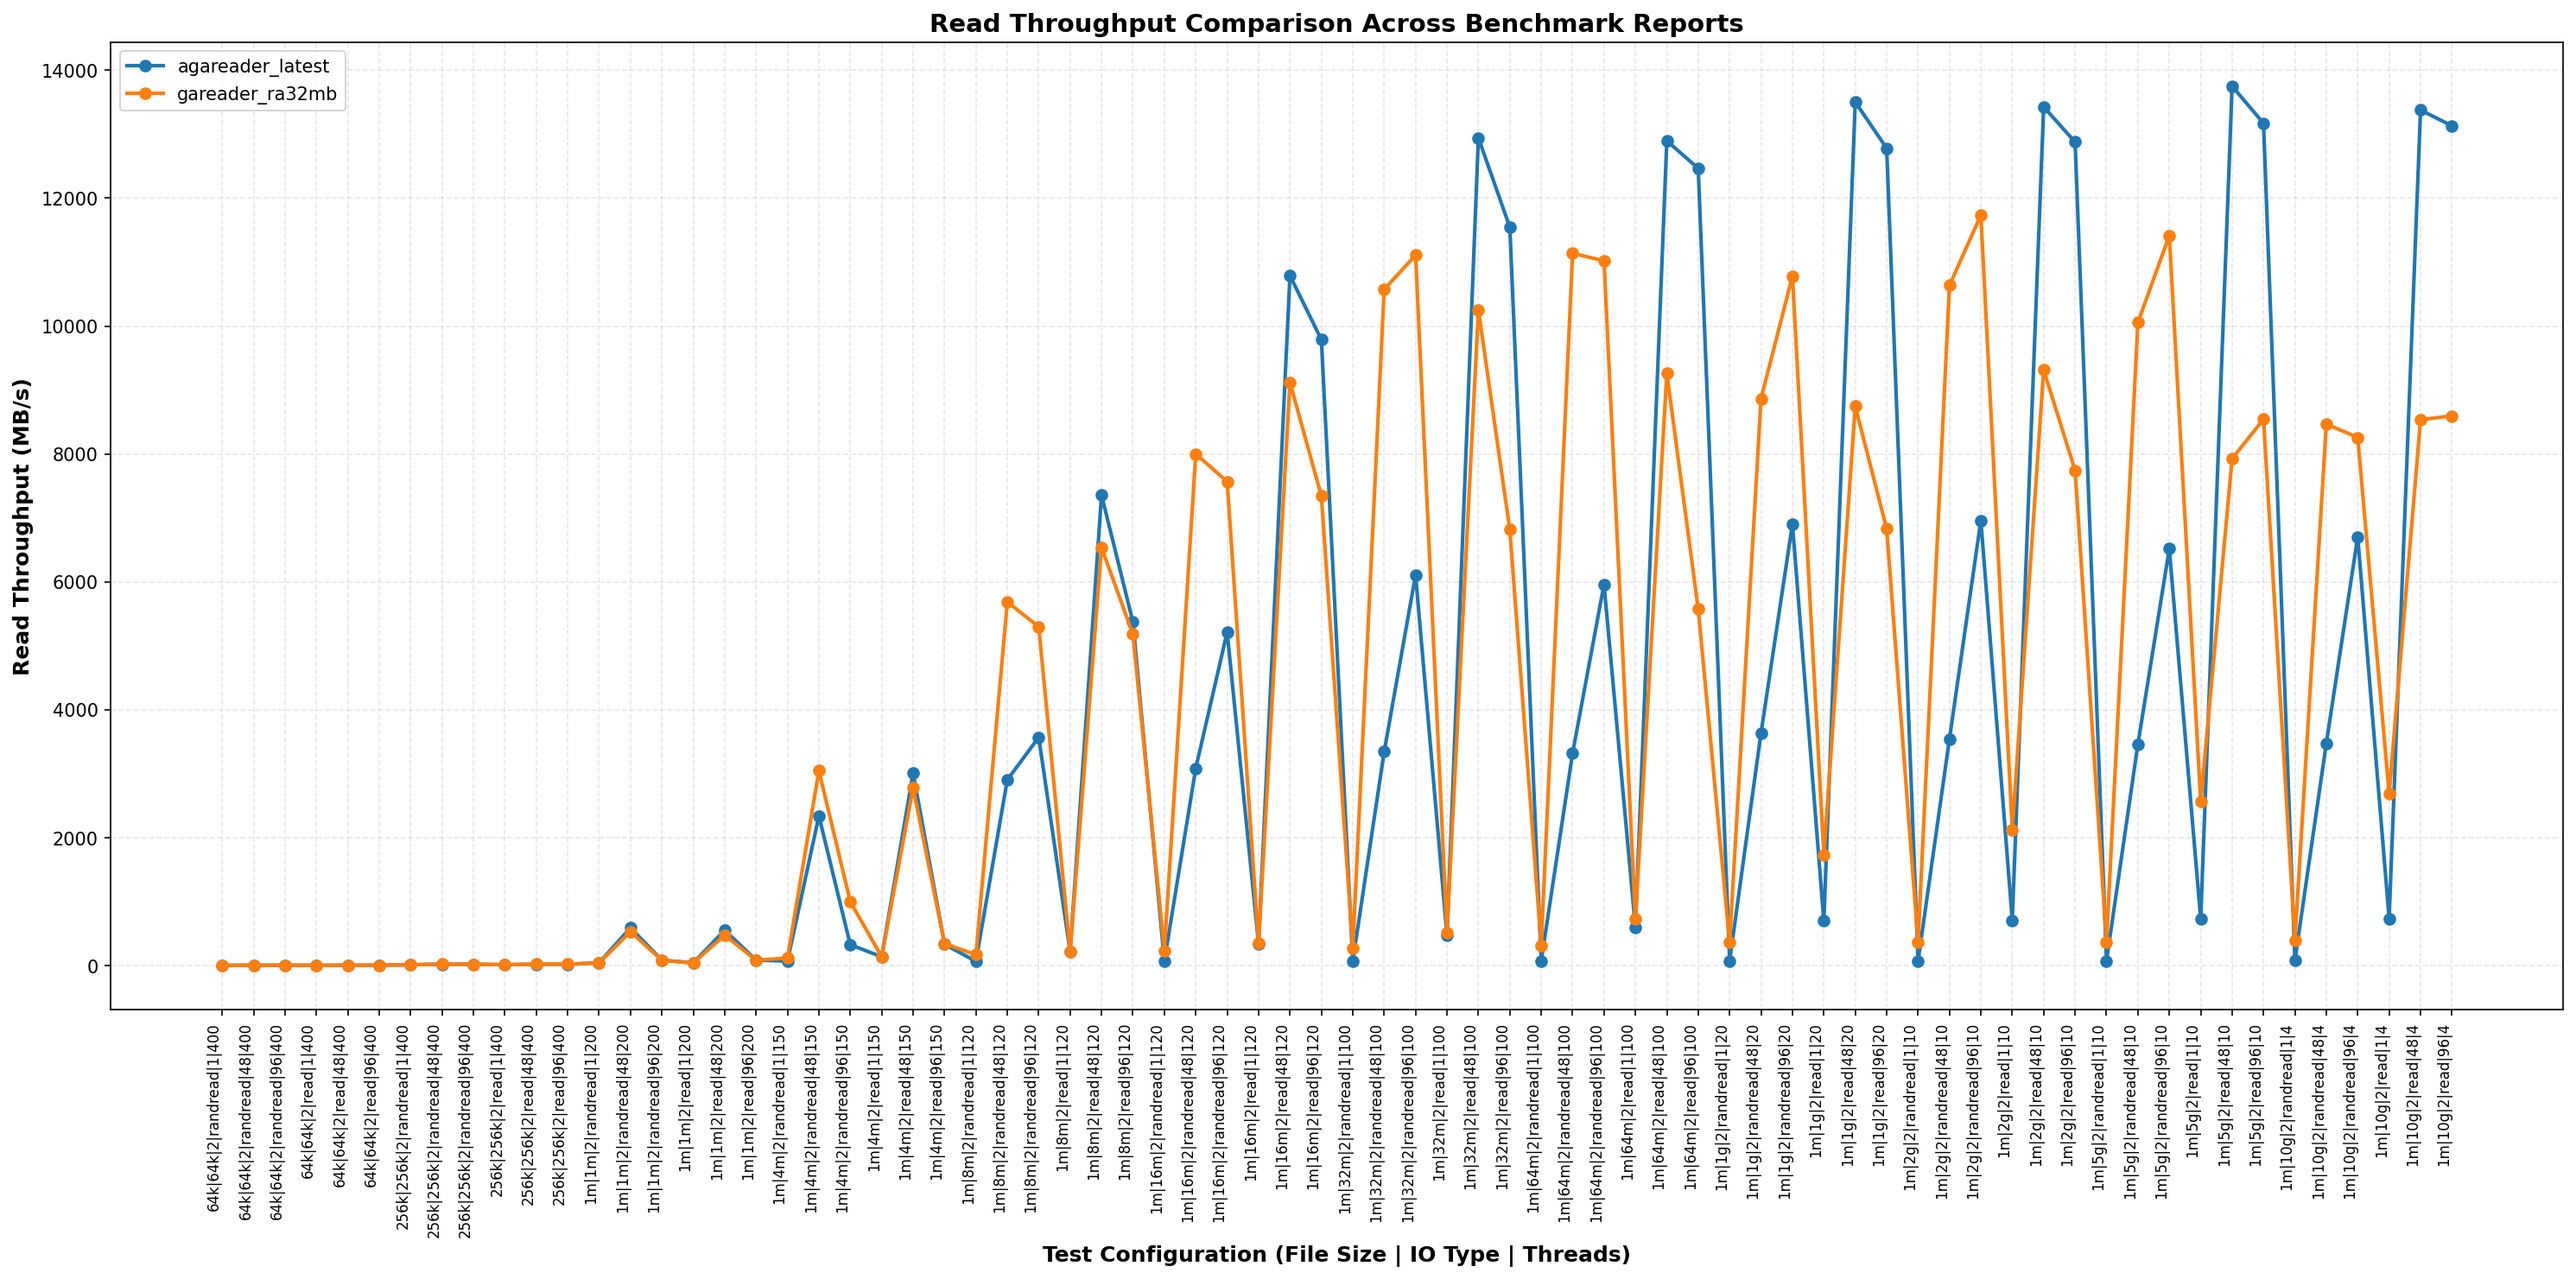
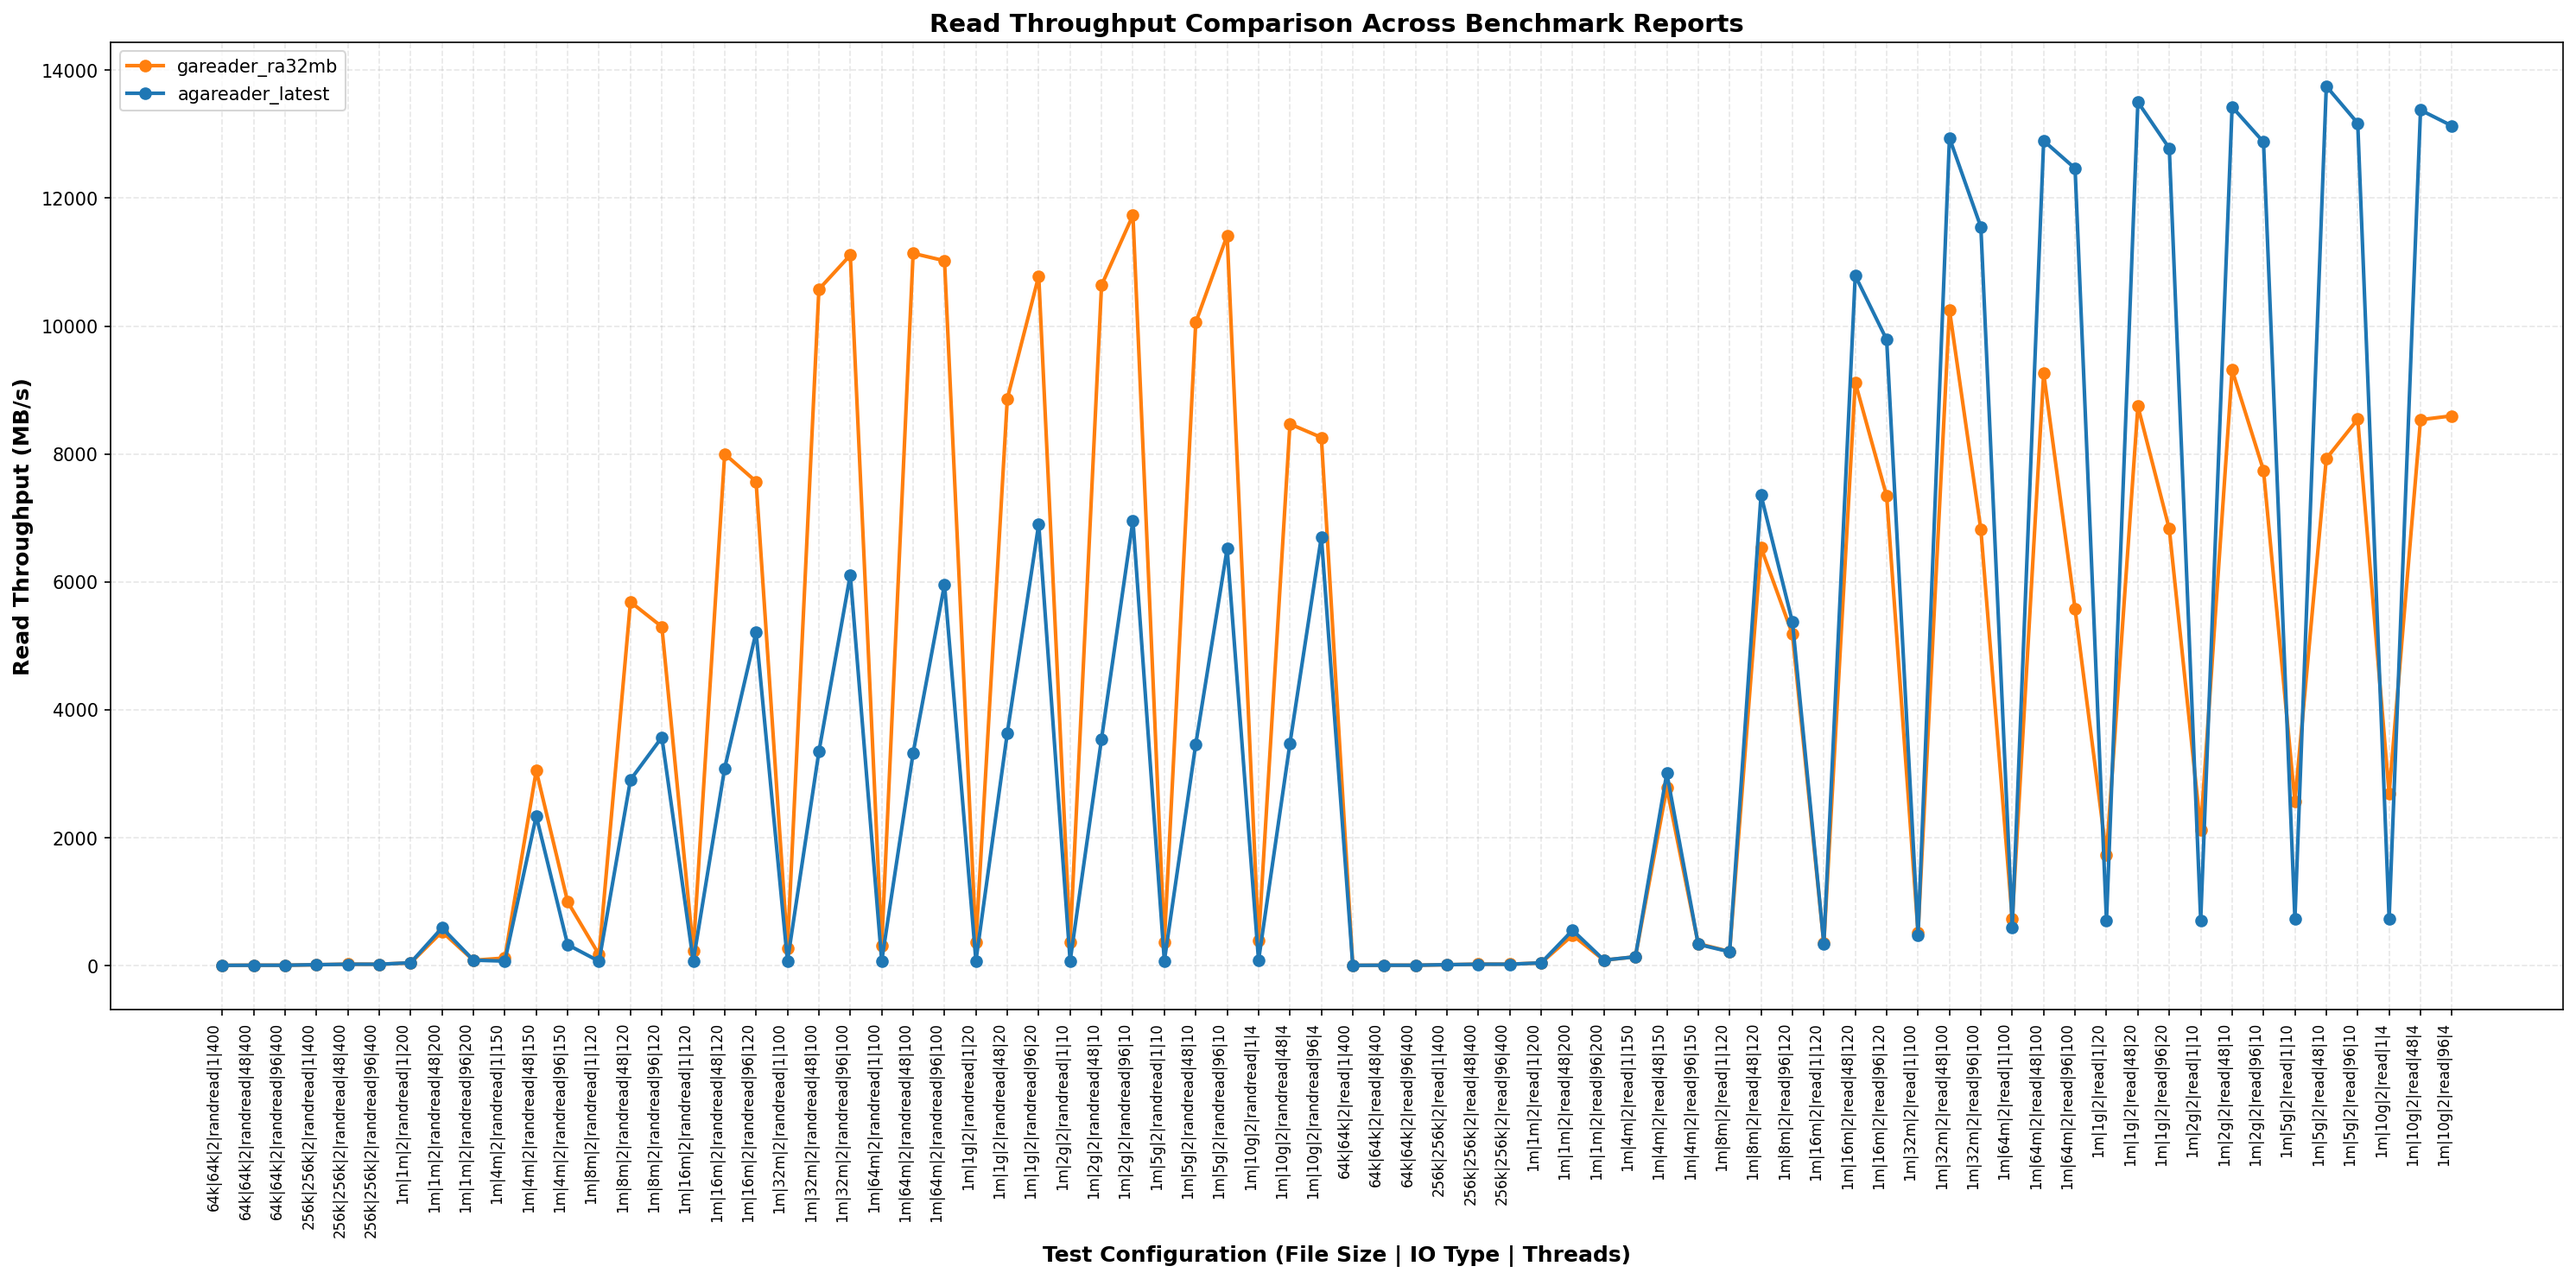
grouping read and random read together while generating report

diff --git a/distributed-micro-benchmarking/plot_reports.py b/distributed-micro-benchmarking/plot_reports.py
@@ -37,12 +37,12 @@ def parse_params(param_str):
 
 
 def sort_key(param_str):
-    """Generate sort key for parameter string: (file_size_numeric, io_type, threads)"""
+    """Generate sort key for parameter string: (io_type, file_size_numeric, threads)"""
     params = parse_params(param_str)
     if params:
         file_size_val = parse_file_size(params['file_size'])
         io_type_order = 0 if params['io_type'] == 'randread' else 1
-        return (file_size_val, io_type_order, params['threads'])
+        return (io_type_order, file_size_val, params['threads'])
     return (0, 0, 0)
 
 
